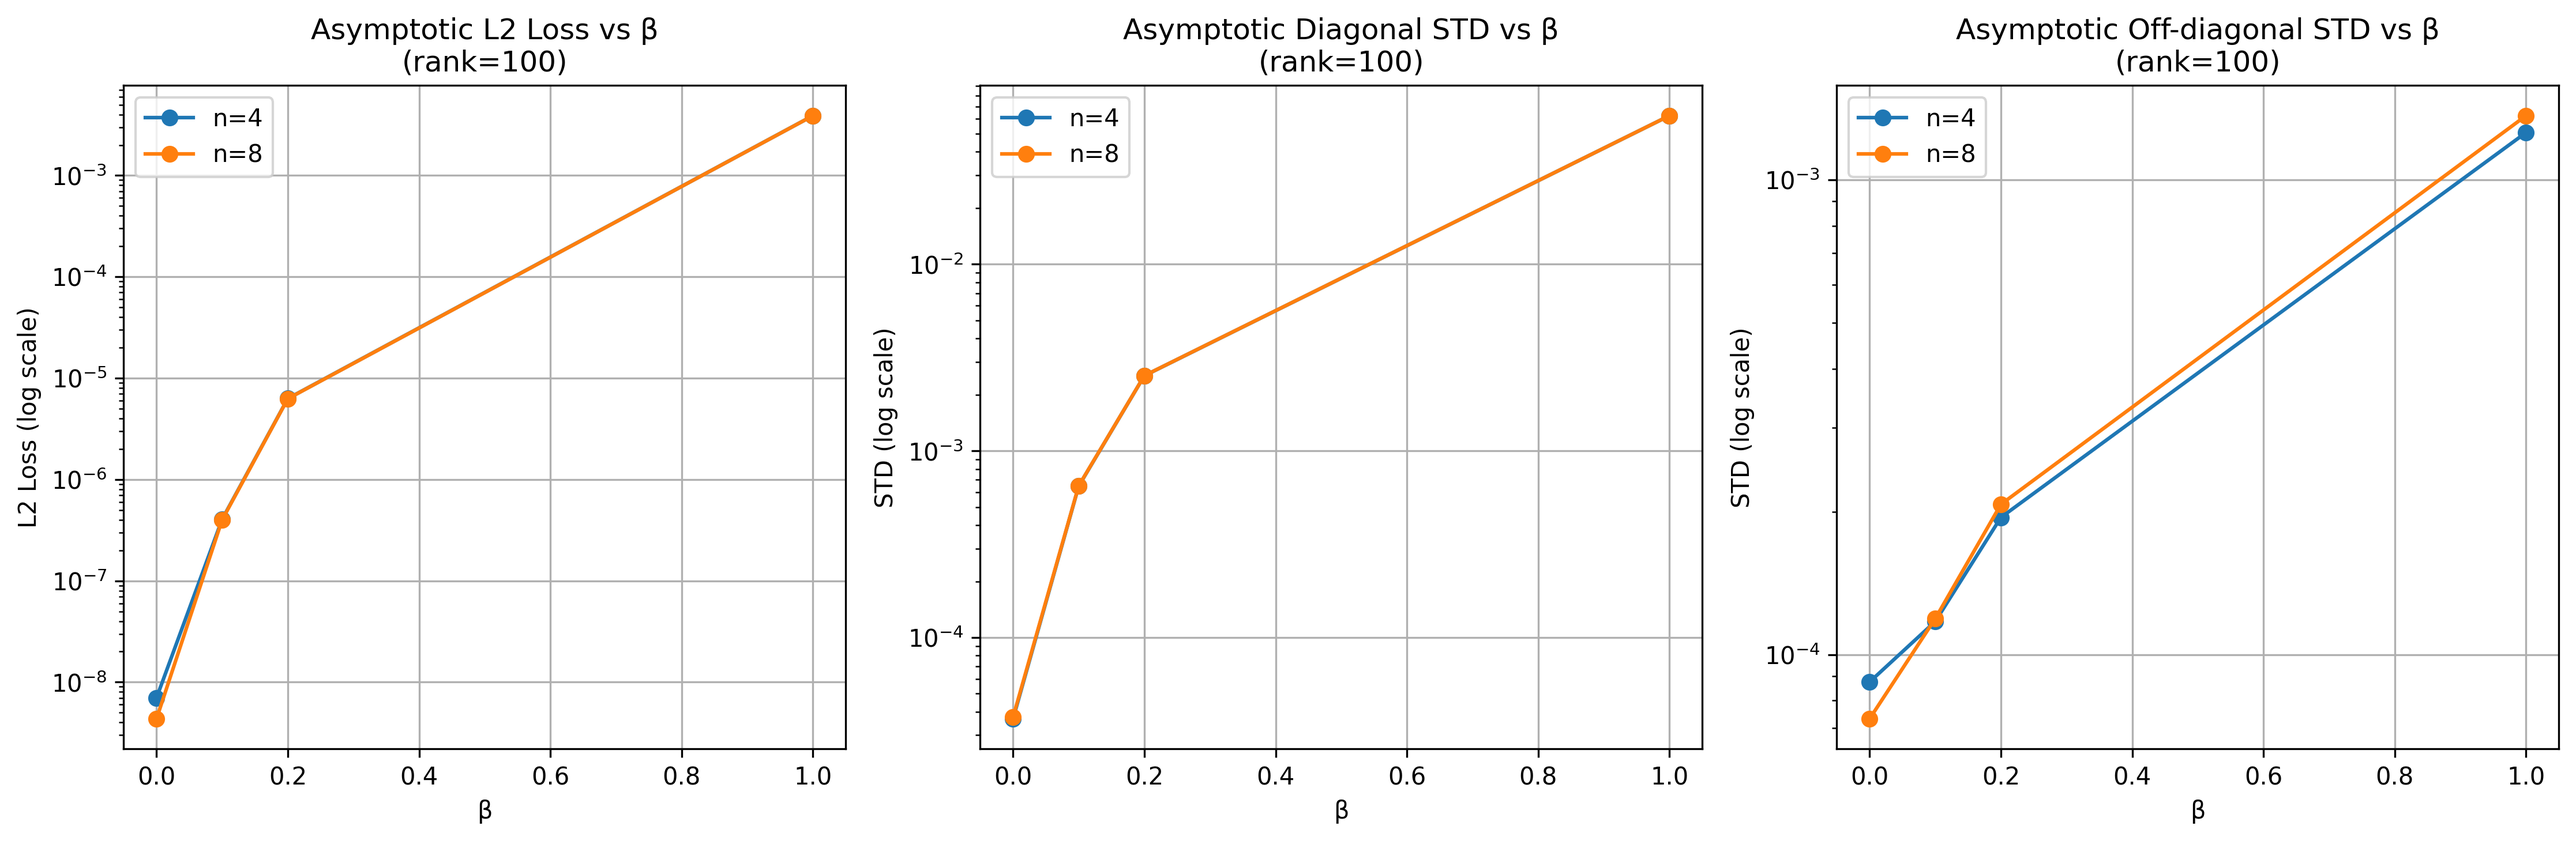
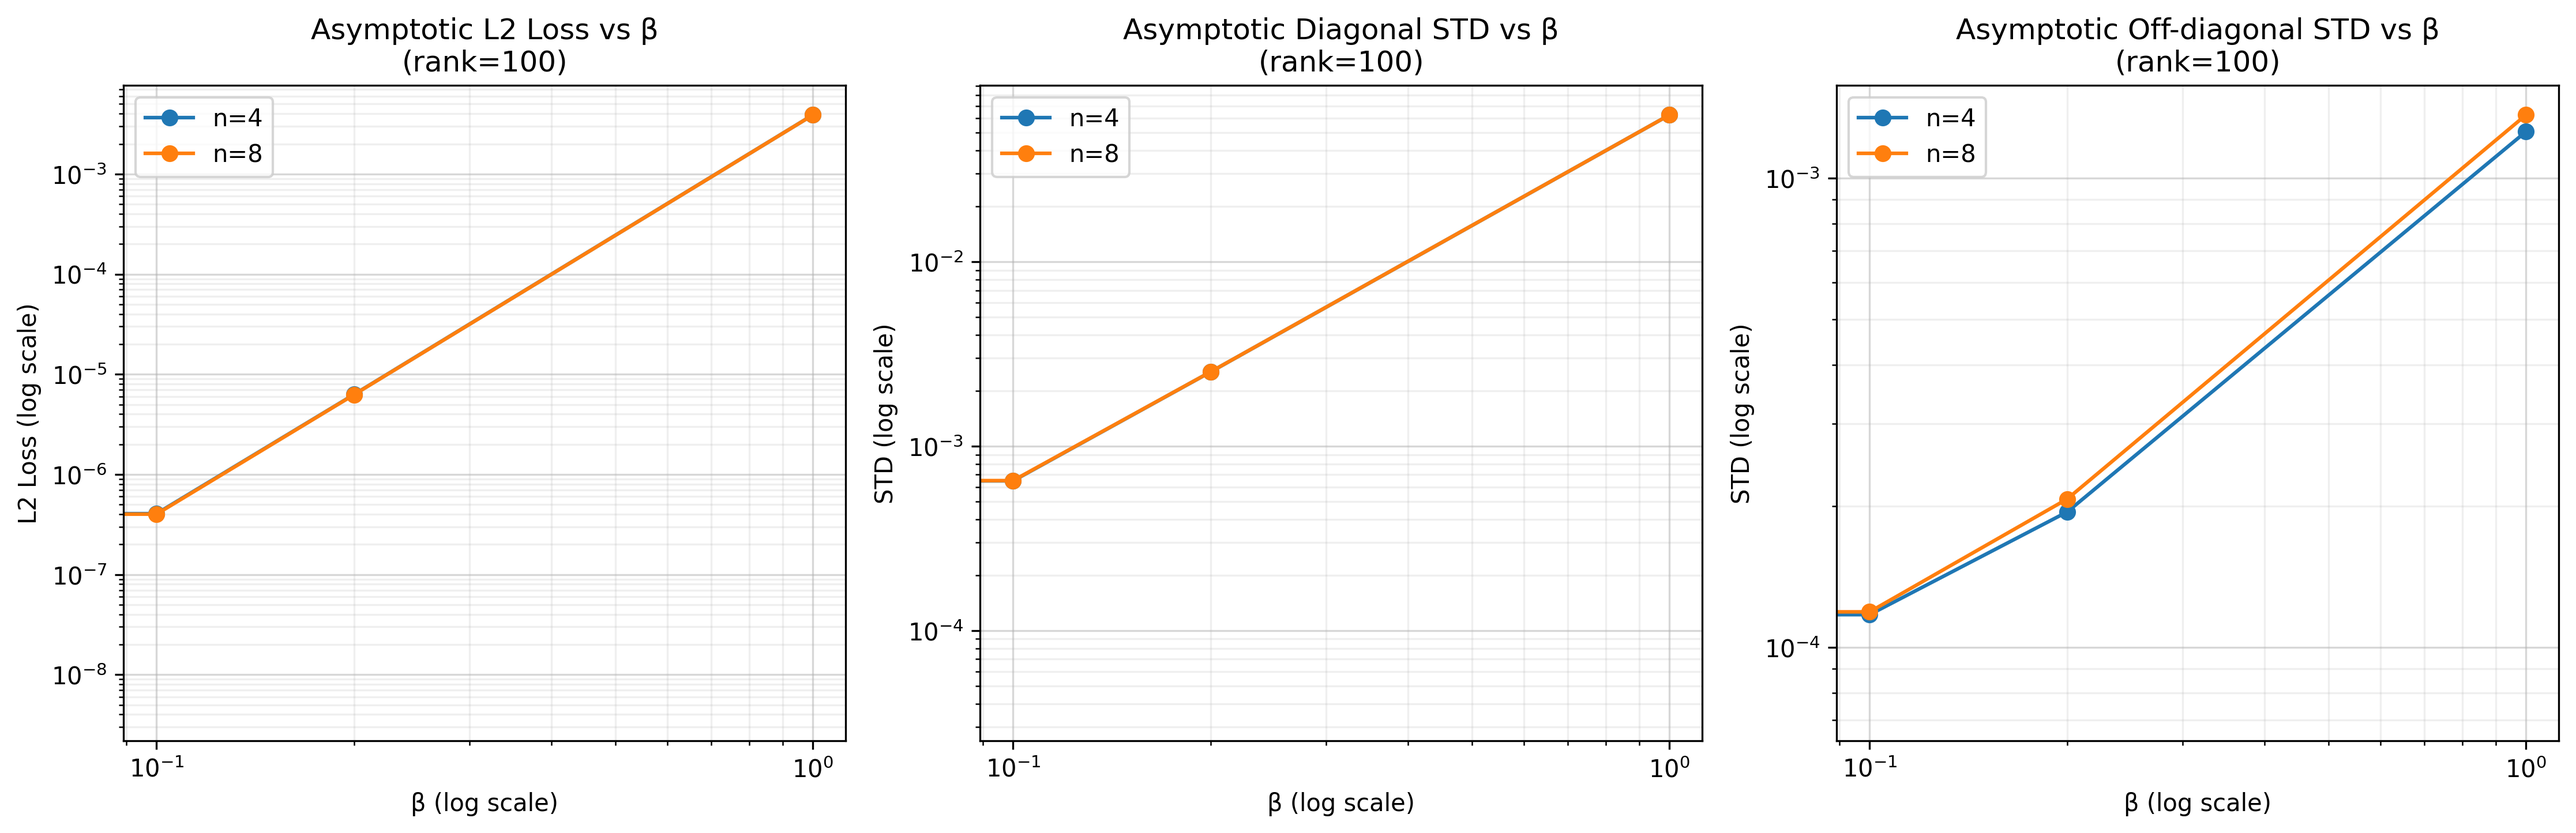
beta dependance linear in log log wtf, also gonna make it further

diff --git a/experiments/after_big_run_statistics.py b/experiments/after_big_run_statistics.py
@@ -188,34 +188,37 @@ for beta in betas:
 plt.subplot(131)
 for n in n_samples_list:
     if convergence_data[n]['betas']:  # we only plot if we have data
-        plt.semilogy(convergence_data[n]['betas'], convergence_data[n]['l2_losses'], 'o-', 
+        plt.loglog(convergence_data[n]['betas'], convergence_data[n]['l2_losses'], 'o-', 
                 label=f'n={n}')
 plt.title(f'Asymptotic L2 Loss vs β\n(rank={max_rank})')
-plt.xlabel('β')
+plt.xlabel('β (log scale)')
 plt.ylabel('L2 Loss (log scale)')
-plt.grid(True)
+plt.grid(True, which="both", ls="-", alpha=0.2)  # we add minor grid
+plt.grid(True, which="major", ls="-", alpha=0.5)  # we make major grid more visible
 plt.legend()
 
 plt.subplot(132)
 for n in n_samples_list:
     if convergence_data[n]['betas']:
-        plt.semilogy(convergence_data[n]['betas'], convergence_data[n]['diag_stds'], 'o-',
+        plt.loglog(convergence_data[n]['betas'], convergence_data[n]['diag_stds'], 'o-',
                 label=f'n={n}')
 plt.title(f'Asymptotic Diagonal STD vs β\n(rank={max_rank})')
-plt.xlabel('β')
+plt.xlabel('β (log scale)')
 plt.ylabel('STD (log scale)')
-plt.grid(True)
+plt.grid(True, which="both", ls="-", alpha=0.2)
+plt.grid(True, which="major", ls="-", alpha=0.5)
 plt.legend()
 
 plt.subplot(133)
 for n in n_samples_list:
     if convergence_data[n]['betas']:
-        plt.semilogy(convergence_data[n]['betas'], convergence_data[n]['offdiag_stds'], 'o-',
+        plt.loglog(convergence_data[n]['betas'], convergence_data[n]['offdiag_stds'], 'o-',
                 label=f'n={n}')
 plt.title(f'Asymptotic Off-diagonal STD vs β\n(rank={max_rank})')
-plt.xlabel('β')
+plt.xlabel('β (log scale)')
 plt.ylabel('STD (log scale)')
-plt.grid(True)
+plt.grid(True, which="both", ls="-", alpha=0.2)
+plt.grid(True, which="major", ls="-", alpha=0.5)
 plt.legend()
 
 plt.tight_layout()
